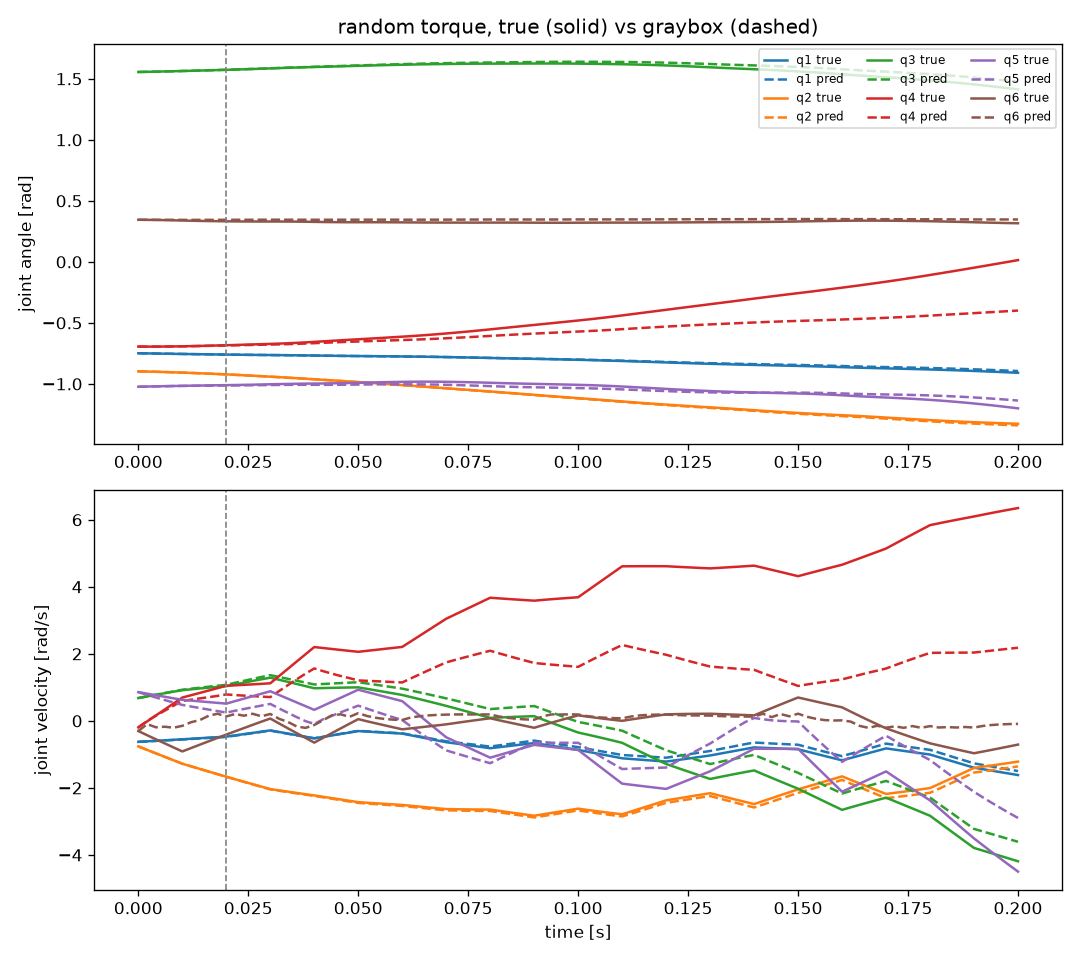
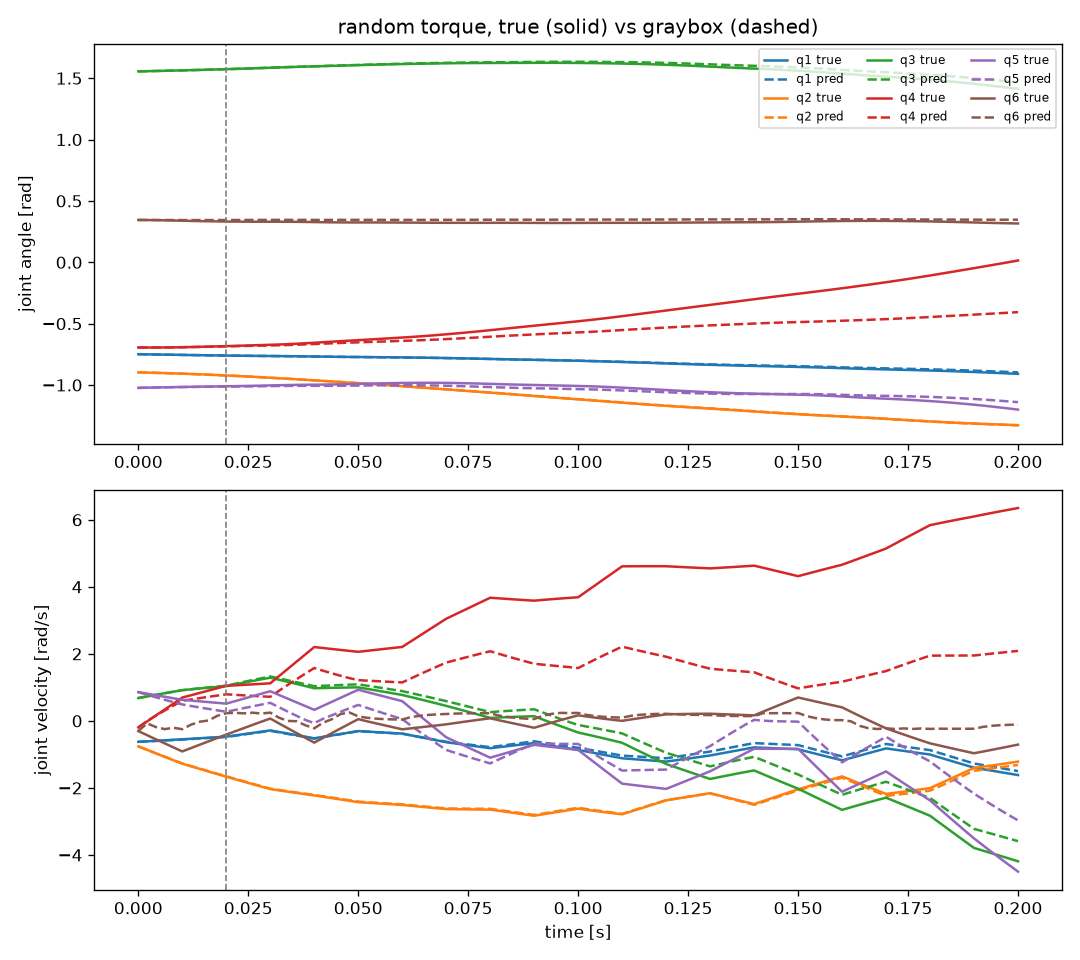
M2: 学習データに重力補償+小摂動の低速軌道を混ぜて摩擦係数の識別を改善
#5でK_MAXを伸ばす対策を試したが摩擦係数の識別精度は改善しなかった。実際の
学習データの速度分布を調べたところ、ランダムトルク駆動ではほとんどの時間が
V_STRIBECK(0.03)よりずっと大きい高速域になっており(|q_dot|<2*V_STRIBECKと
なる時間はわずか3-6%)、クーロン摩擦のtanh項がほぼ常に飽和し、粘性摩擦と
クーロン摩擦の寄与が観測上区別しにくい状態だったことが判明した。

データの25%を初期姿勢の重力補償トルク+小摂動で駆動し、低速域(V_STRIBECK
付近)を探索する軌道を混ぜることで対処した(残り75%は従来通りのランダム
トルク駆動)。

検証結果:
- 摩擦係数: 一部関節(腕関節1-3)で真値方向への収束が改善したが、手首関節
  (4-6)は依然として真値よりかなり大きい値に留まる
- 開ループロールアウト誤差(RMSE): 悪化(0.2秒間で0.4-0.5→2.9-3.3)
- 計算トルク法PTP制御(閉ループ): 改善(2/2成功、最終追従誤差
  0.092-0.094rad→0.076-0.081rad)

閉ループ制御はフィードバックで開ループの誤差蓄積を継続的に打ち消すため、
開ループRMSEの悪化は実用上のPTP性能には直結しないと判断し、この変更を
採用した。

Claude-Session: https://claude.ai/code/session_01Rvrf6mcbh1UrexApn66z2b

diff --git a/README.md b/README.md
@@ -60,8 +60,11 @@ M(q) q̈ = tau - bias(q,q̇) - friction(q̇)
 
 - **M1** (#1, #2): DHパラメータ+RNEAによる真値シミュレータ。エネルギー保存則を
   2秒間で相対誤差2.5e-5まで検証。
-- **M2** (#3): ランダムトルク駆動のデータセット生成、グレーボックスサロゲートの学習、
-  計算トルク法PTP制御での真値/サロゲート比較。
+- **M2** (#3, #6): ランダムトルク駆動のデータセット生成、グレーボックスサロゲートの学習、
+  計算トルク法PTP制御での真値/サロゲート比較。摩擦係数(粘性/クーロン)の識別精度を
+  上げるため、データの一部(25%)を重力補償+小摂動トルクで駆動し低速域(V_STRIBECK
+  付近)を探索するようにした。計算トルク法PTP制御は2/2 IC成功(最終追従誤差
+  0.076-0.081rad、しきい値0.2rad)。
 
 ## 教訓
 
@@ -92,6 +95,18 @@ M(q) q̈ = tau - bias(q,q̇) - friction(q̇)
    (numpy版・torch版の両方に適用、約5-6倍の高速化を確認)。同様にデータセット生成も
    軌道ごとに逐次シミュレートするのではなく、バッチ次元にまとめて`simulate_batch`で
    一括シミュレートすることで大幅に高速化できる。
+
+4. **粘性摩擦とクーロン摩擦を分離識別するには、V_STRIBECK付近の低速域を学習データが
+   十分探索している必要がある**: ランダムトルクだけで駆動すると(特に重力補償なしの
+   腕関節は)ほとんどの時間が高速域(|q_dot| >> V_STRIBECK)になり、
+   `tanh(q_dot/V_STRIBECK)`がほぼ常に±1に飽和してクーロン摩擦が実質的に定数バイアスに
+   なってしまう。この状態では粘性・クーロンの寄与が観測上区別しにくく、係数が「両者の
+   妥当な合成値」に収束して個別には識別できない(#5でK_MAXを伸ばしても改善しなかった
+   のはこれが原因と考えられる)。データの一部を初期姿勢の重力補償トルク+小摂動で
+   駆動し、低速域に留まる軌道を混ぜることで改善する(#6)。ただしこの変更は開ループの
+   多段階ロールアウト誤差(RMSE)をむしろ悪化させた一方、計算トルク法PTP制御(閉ループ)
+   の追従誤差は改善した。閉ループ制御はフィードバックで開ループの誤差蓄積を継続的に
+   打ち消すため、開ループRMSEの多少の悪化は実用上のPTP性能には直結しないと考えられる。
 
 ## セットアップ
 
